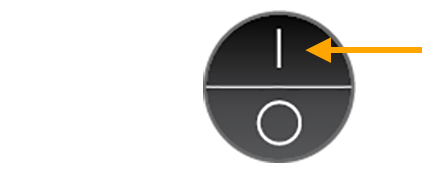
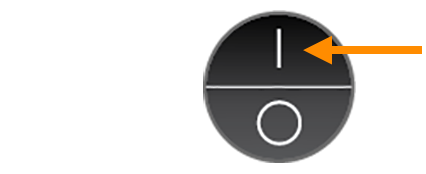
Updated imagery for the Put Into Operation topic

Changed region(s): [[0.7019, 0.2011, 1.0, 0.3736]]

diff --git a/Content/Resources/Topics/SL_Operation/Put_Into_Operation.htm b/Content/Resources/Topics/SL_Operation/Put_Into_Operation.htm
@@ -5,9 +5,9 @@
     </head>
     <body>
         <h2>Put the Incubator into Operation</h2>
-        <p>Perform the following steps and procedures to put the unit into operation after installing it in a new workspace environment.<img src="../../Images/Graphic Symbols/Temperature/Temp_SL_Heat_Inc_Man.png" MadCap:mediastyle="@media print { position: absolute;z-index: 0; }" style="float: left;left: -41px;top: 448px;" /></p>
+        <p>Perform the following steps and procedures to put the unit into operation after installing it in a new workspace environment.<img src="../../Images/Graphic Symbols/Temperature/Temp_SL_Heat_Inc_Man.png" MadCap:mediastyle="@media print { position: absolute;z-index: 0; }" style="float: left;left: -45px;top: 480px;" /></p>
         <p>
-            <img src="../../Images/Graphic Symbols/Date_Time_Man.png" MadCap:mediastyle="@media print { position: absolute;z-index: 0; }" style="float: left;left: -58px;top: 314px;" />
+            <img src="../../Images/Graphic Symbols/Date_Time_Man.png" MadCap:mediastyle="@media print { position: absolute;z-index: 0; }" style="float: left;left: -63px;top: 336px;" />
         </p>
         <table style="width: 100%;mc-table-style: url('../../Stylesheets/SLProcedureTable.css');margin-left: 0;margin-right: auto;" class="TableStyle-SLProcedureTable" cellspacing="0">
             <col class="TableStyle-SLProcedureTable-Column-Column1" style="width: 221px;" />
@@ -19,7 +19,7 @@
                         </p>
                     </td>
                 </tr>
-                <tr class="TableStyle-SLProcedureTable-Body-Body1">
+                <tr class="TableStyle-SLProcedureTable-Body-Body1" style="height: 89px;">
                     <td class="TableStyle-SLProcedureTable-BodyE-Column1-Body1">
                         <p class="table_data">
                             <img src="../../Images/Put_Into_Operation_Step_1_Man.png" />
@@ -36,7 +36,7 @@
                         </p>
                     </td>
                 </tr>
-                <tr class="TableStyle-SLProcedureTable-Body-Body2">
+                <tr class="TableStyle-SLProcedureTable-Body-Body2" style="height: 83px;">
                     <td class="TableStyle-SLProcedureTable-BodyE-Column1-Body2" style="border-left-style: solid;border-left-width: 1px;border-left-color: #dcdcdc;border-right-style: none;border-right-width: 0px;border-right-color: #dcdcdc;border-top-style: none;border-top-width: 0px;border-top-color: #dcdcdc;border-bottom-style: solid;border-bottom-width: 1px;border-bottom-color: #dcdcdc;padding-left: 4px;padding-right: 2px;padding-top: 2px;padding-bottom: 2px;">
                         <p class="table_data">
                             <img src="../../Images/Put_Into_Operation_Step_2_Man.png" />
@@ -53,7 +53,7 @@
                         </p>
                     </td>
                 </tr>
-                <tr class="TableStyle-SLProcedureTable-Body-Body1">
+                <tr class="TableStyle-SLProcedureTable-Body-Body1" style="height: 118px;">
                     <td class="TableStyle-SLProcedureTable-BodyE-Column1-Body1">
                         <p>
                             <img src="../../Images/Display/TDM_SMIs_Set_Date&amp;Time_Sm_1_Man.png" style="margin-left: 10px;margin-right: 2px;margin-top: 2px;margin-bottom: 2px;" />
@@ -95,8 +95,8 @@
                 </tr>
                 <tr class="TableStyle-SLProcedureTable-Body-Body1">
                     <td class="TableStyle-SLProcedureTable-BodyB-Column1-Body1">
-                        <p class="table_data">
-                            <img src="../../Images/Graphic Symbols/Timer_Wait_8_Hours_Man.png" MadCap:mediastyle="@media print { position: absolute;z-index: 0; }" style="float: left;left: 61px;top: 649px;" />
+                        <p>
+                            <img src="../../Images/Graphic Symbols/Timer_Wait_8_Hours_Lrg_Man.png" MadCap:mediastyle="@media print { position: absolute;z-index: 0; }" style="float: left;left: 63px;top: 674px;" />
                         </p>
                     </td>
                     <td class="TableStyle-SLProcedureTable-BodyA-Column1-Body1">
@@ -109,7 +109,6 @@
                 </tr>
             </tbody>
         </table>
-        <p class="centered">&#160;</p>
         <p class="centered">&#160;</p>
         <p class="centered">Continued on next page</p>
         <MadCap:pageBreak />

diff --git a/Content/Resources/Topics/SL_Operation/Theory_of_Ops.htm b/Content/Resources/Topics/SL_Operation/Theory_of_Ops.htm
@@ -5,12 +5,12 @@
     <body>
         <h1>OPERATION</h1>
         <p>
-            <img src="../../Images/Graphic Symbols/Temperature/Temp_GS_Man.png" MadCap:mediastyle="@media print { position: absolute;z-index: 0; }" style="float: left;left: 630px;top: 131px;" />
+            <img src="../../Images/Graphic Symbols/Temperature/Temp_GS_Man.png" MadCap:mediastyle="@media print { position: absolute;z-index: 0; }" style="float: left;left: 647px;top: 130px;" />
         </p>
         <h2>Theory of Operation</h2>
         <p>Each incubator chamber in an <MadCap:conditionalText MadCap:conditions="Voltage.220V">SMI12-2</MadCap:conditionalText> <MadCap:conditionalText MadCap:conditions="Voltage.110V">SMI12</MadCap:conditionalText> is independently powered and heated.</p>
         <p>
-            <img src="../../Images/Graphic Symbols/Temperature/OTP_GS_Man.png" MadCap:mediastyle="@media print { position: absolute;z-index: 0; }" style="float: left;left: 626px;top: 496px;" />
+            <img src="../../Images/Graphic Symbols/Temperature/OTP_GS_Man.png" MadCap:mediastyle="@media print { position: absolute;z-index: 0; }" style="float: left;left: 631px;top: 496px;" />
         </p>
         <h3>Heating</h3>
         <p>When powered, the incubator heats to and then maintains a user-selected target set point in the incubation chamber. The incubator senses the chamber air temperature using a solid-state probe mounted on the chamber interior wall. When the incubator detects that the chamber temperature has dropped below the target set point, it pulses power to the heating elements inside the chamber walls and in the outer chamber door.</p>
@@ -25,7 +25,7 @@
         <h3>Data Logging and Outputs</h3>
         <p>The incubator logs up to 5 years of temperature data, with measurements recorded every 60 seconds. The log can be exported an as a spreadsheet-readable .CSV file using the USB port on the right side of the incubator. A 4 – 20 milliamp data port outputs temperature data as an analog signal suitable for building monitoring systems. An open / closed dry contact port communicates alarm activation instances.</p>
         <p>
-            <img src="../../Images/Display/Icons/Graph_HiRez_GR_Icon_Man.png" MadCap:mediastyle="@media print { position: absolute;z-index: 0; }" style="float: left;left: 624px;top: 706px;" />
+            <img src="../../Images/Display/Icons/Graph_HiRez_GR_Icon_Man.png" MadCap:mediastyle="@media print { position: absolute;z-index: 0; }" style="float: left;left: 637px;top: 706px;" />
         </p>
         <MadCap:pageBreak />
     </body>
